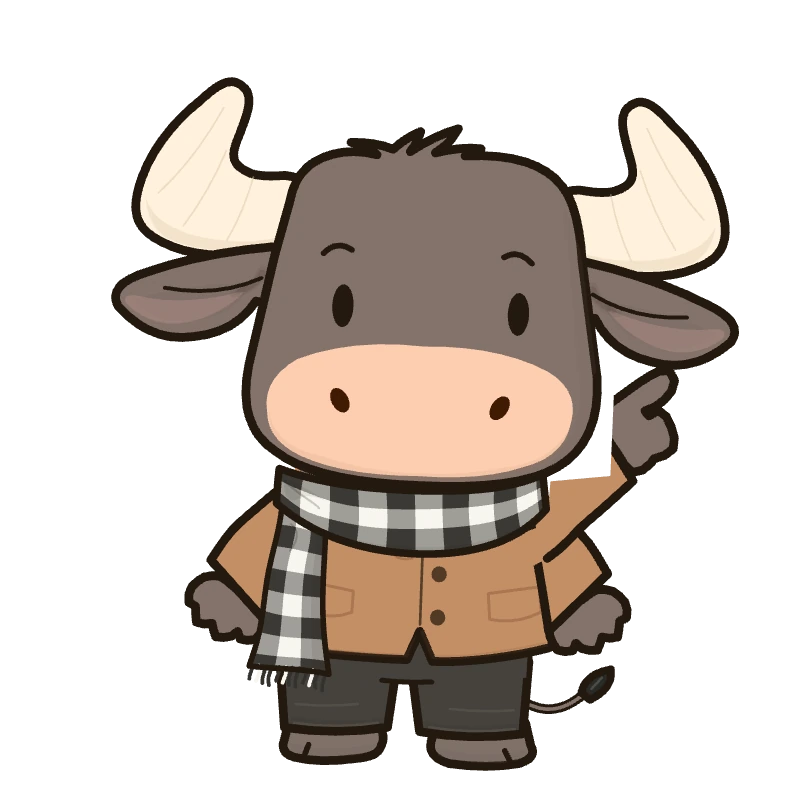
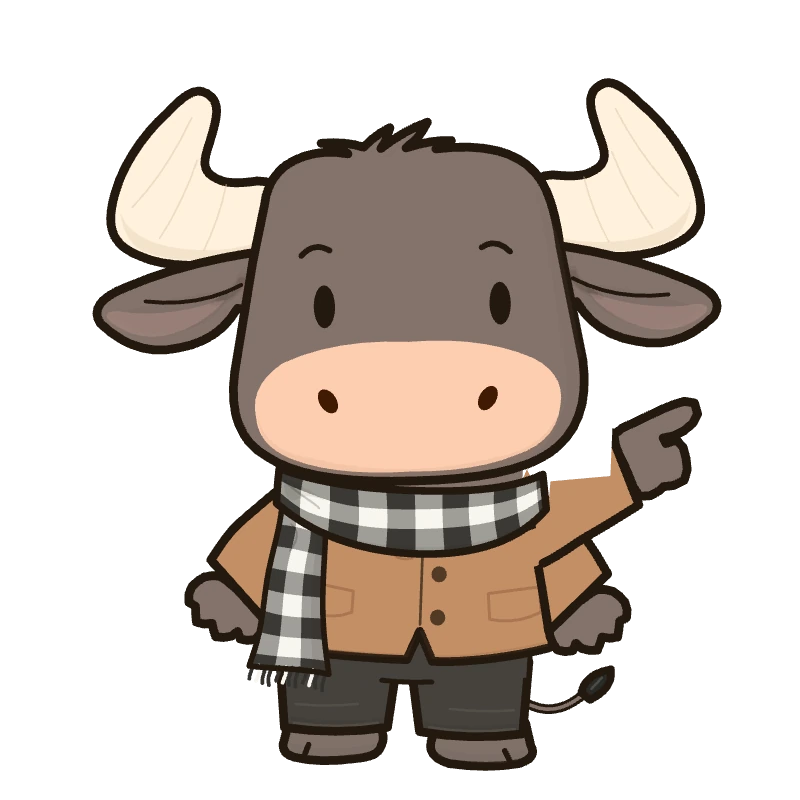
Trâu: xe tải chạy vào / chạy đi khi vẫy (26), chỉ lên không bị đầu che (19) — đã soi, xuất lại ảnh 15 và 20

diff --git a/frontend/trau-rive/xuat-tu-the.py b/frontend/trau-rive/xuat-tu-the.py
@@ -21,7 +21,7 @@ VIEC_THEM = [
     ('tu-the', '15-chi-len', 19, 60, 800, False, 'webp'), ('tu-the', '16-cam-tien', 20, 80, 800, False, 'webp'),
     ('tu-the', '17-ky-giay', 21, 80, 800, False, 'webp'), ('tu-the', '18-canh-bao', 22, 80, 800, False, 'webp'),
 ] + [('tu-the', ten, hd, f, 800, False, 'webp') for ten, hd, f in (
-    ('19-can', 25, 60), ('20-xe-tai', 26, 60), ('21-tui-mau', 27, 80), ('22-binh-xit-lich', 28, 80), ('23-tai-nghe', 29, 40),
+    ('19-can', 25, 60), ('20-xe-tai', 26, 100), ('21-tui-mau', 27, 80), ('22-binh-xit-lich', 28, 80), ('23-tai-nghe', 29, 40),
     ('24-ngon-cai', 30, 80), ('25-binh-tinh', 31, 80), ('26-dong-ho', 32, 80), ('27-non-la', 33, 80),
     ('29-so-sanh', 35, 110))] + [('anh', f'trong-{ten}@{k}x', hd, f, 200 * k, False, 'webp png') for ten, hd, f in
      (('chua-co-nhat-ky', 15, 80), ('chua-co-thong-bao', 23, 100), ('loi', 12, 50)) for k in (2, 3)] \

diff --git a/docs/trau/BAN-GIAO-TRAU.md b/docs/trau/BAN-GIAO-TRAU.md
@@ -252,7 +252,7 @@ Phản hồi lần 2: nón lá chưa thấy quai (hành động 33 quên bật `
 
 Người sáng lập xem trực tiếp (1/11 tối): bỏ áo mưa (34, ảnh 28) và quai nón (trâu không có cằm — quai nào cũng dính mõm); ngón cái lật gương cho khớp tay phải, to ×1,25; xe tải lật đầu ra ngoài, to ×1,35, đậu sau lưng; bút xuyên nắm tay phải, nằm giữa giấy và bàn tay; **chỉ xuống / lên / cạnh cân sai vai** (cũ xoay cả bản tay quanh vai → vai lệch) → bản tay riêng `chi-xuong`, `chi-len` uốn từ vai (`be_vai`: điểm càng xa gốc vai xoay càng nhiều, gốc đứng yên); xin lỗi cúi 11 px, tay buông (cúi sâu + tay vẽ trên khăn làm mõm chìm dưới tay).
 
-**ĐANG DỞ (1/11 tối, người sáng lập bảo tạm dừng):** (1) hành động 26 xe tải chạy vào từ phải → dừng sau lưng → trâu vẫy → xe chạy đi trái (đầu xe hướng trái), (2) 19 chỉ lên hạ góc −0,32 rad, đầu không nghiêng sang tay. Đã dựng 0 lỗi nhưng **chưa soi ảnh / chưa xuất lại `tu-the/15-chi-len`, `20-xe-tai`, chưa gửi duyệt**. Tiếp: chụp chuỗi khung 26 và 19, xuất lại 2 ảnh, gửi người sáng lập.
+**Xong (2/11):** 26 xe tải chạy vào từ phải (khung 0–34, nảy nhẹ khi dừng) → đứng sau lưng khi trâu vẫy → chạy đi sang trái (150–200), đầu xe hướng trái; ảnh `tu-the/20-xe-tai` chụp khung 100 (xe đang đỗ, cabin khuất sau trâu). 19 chỉ lên: góc −0,32 rad, đầu giữ thẳng ngửa nhẹ → bàn tay ló hẳn ngoài đầu, vai liền; ảnh `tu-the/15-chi-len` xuất lại.
 
 #### Thêm cho chính diện (1/11, chờ duyệt)
 - 3 động tác lúc rảnh mới (Nghịch, tổng 12): ngáp che miệng (bản tay chống má), chỉnh khăn (một tay lên ngực, đuôi khăn đung đưa), chợt thấy rồi chỉ (mắt to → đầu quay → ngón trỏ chỉ). `AGV_THU=9/10/11`. Ảnh: `nghich-them-3.png`.

diff --git a/docs/trau/HOP-DONG-V4.md b/docs/trau/HOP-DONG-V4.md
@@ -48,7 +48,7 @@ Cả hai có state machine `trau` với cùng đầu vào.
 | 23 | ngủ gật cạnh chuông | chưa có thông báo |
 | 24 | ngạc nhiên (mắt to, mày nhướng) | bong bóng nhỏ |
 | 25 | đứng cạnh cân, tay trái chỉ mặt cân | kết quả cân, cân lại |
-| 26 | vẫy xe tải (xe chở trái cây đậu bên phải) | bàn giao, xe tới vườn |
+| 26 | xe tải chạy vào, trâu vẫy chào, xe chạy đi | bàn giao, xe tới vườn |
 | 27 | cầm túi mẫu niêm phong | mẫu đối chứng, kiểm định |
 | 28 | tay trái cầm lịch, tay phải cầm bình xịt | nhật ký thuốc, ngày hết cách ly |
 | 29 | đeo tai nghe, đang nói | hỗ trợ, tổng đài |
